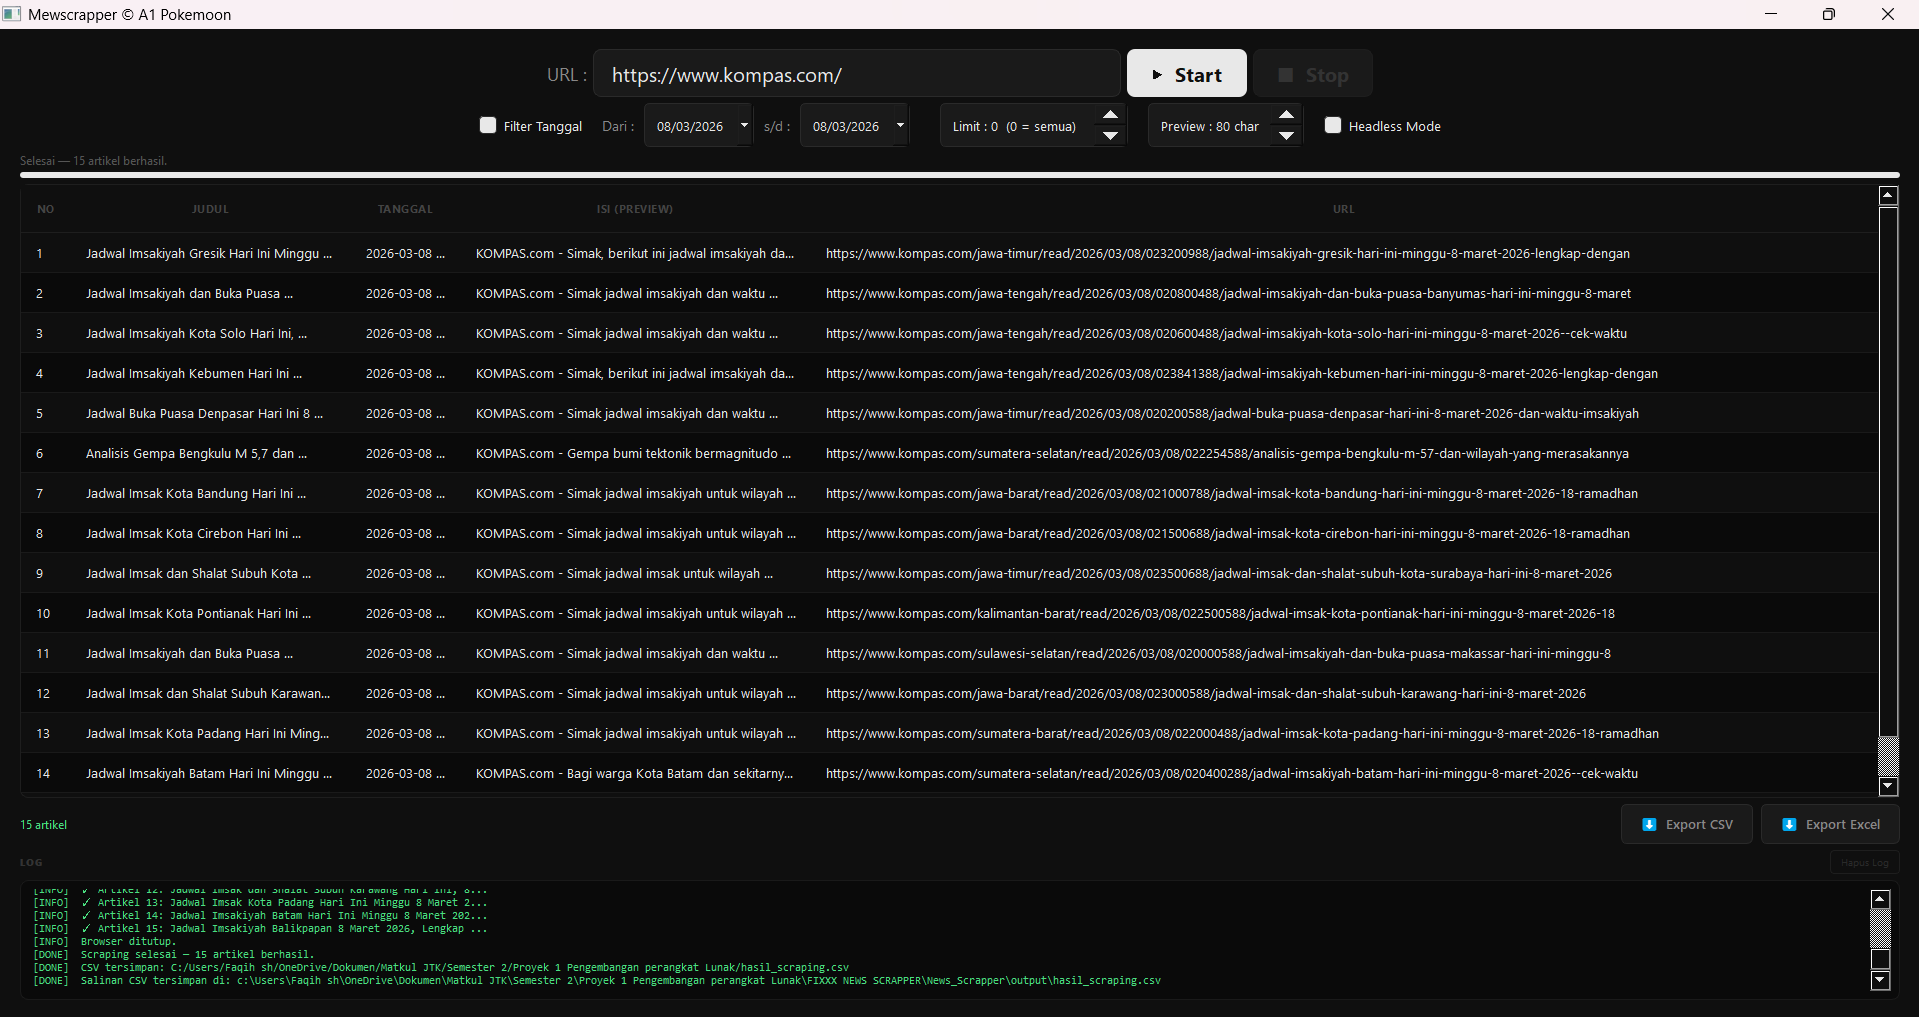
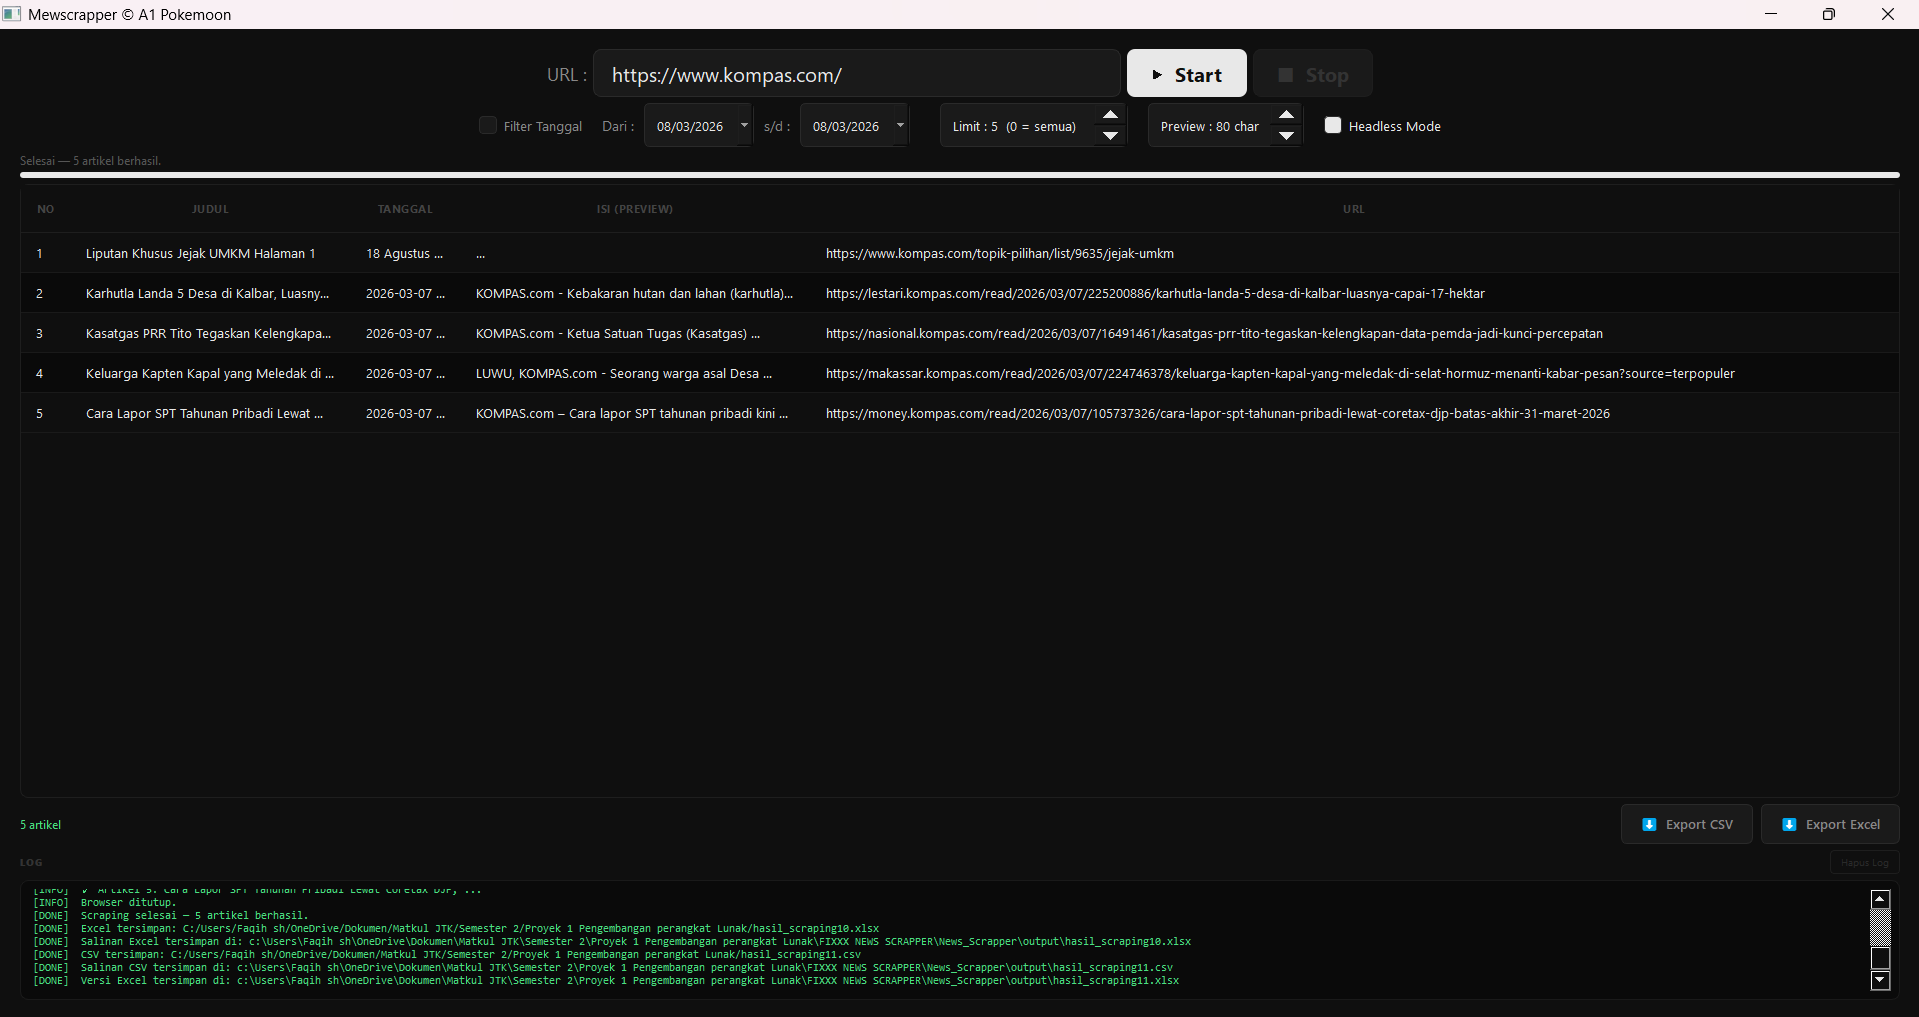
fix error export + add new preview

diff --git a/utils/exporter.py b/utils/exporter.py
@@ -1,30 +1,75 @@
 import csv
+import re
 import openpyxl
-from openpyxl.styles import Font, PatternFill, Alignment
+from openpyxl.styles import Font, PatternFill, Alignment, Border, Side
 
 # FIELDS: bagian data artikel yang mau dimasukkan ke file
 FIELDS = ["title", "date", "content", "url"]
 
-# HEADERS: judul kolom yang akan tampil di bagian atas file export
-HEADERS = ["Judul", "Tanggal", "Isi", "URL"]
+# HEADERS: judul kolom yang akan tampil di bagian atas file export (termasuk No)
+HEADERS = ["No", "Judul", "Tanggal", "Isi", "URL"]
 
-def export_to_csv(data, filepath):
+
+def _clean_text(text):
+    """Membersihkan teks dari newline dan spasi berlebih agar rapi di tabel."""
+    if not text:
+        return ""
+    # Ganti semua jenis newline dan tab menjadi spasi tunggal
+    cleaned = re.sub(r'[\r\n\t]+', ' ', str(text))
+    # Hilangkan spasi berlebihan (dobel atau lebih)
+    cleaned = re.sub(r' {2,}', ' ', cleaned)
+    return cleaned.strip()
+
+
+def _format_date(date_str):
+    """Konversi tanggal ISO (2026-03-08 00:00:00) ke format Indonesia (DD/MM/YYYY HH.mm).
+    Jika bukan format ISO, kembalikan apa adanya.
     """
-    Mengekspor daftar artikel ke dalam file format CSV.
+    if not date_str:
+        return ""
+    # Coba parse format ISO datetime: YYYY-MM-DD HH:MM:SS atau YYYY-MM-DD
+    iso_pattern = re.match(r'(\d{4})-(\d{2})-(\d{2})(?:[T ]?(\d{2}):(\d{2}))?', str(date_str))
+    if iso_pattern:
+        year = iso_pattern.group(1)
+        month = iso_pattern.group(2)
+        day = iso_pattern.group(3)
+        hour = iso_pattern.group(4) or '00'
+        minute = iso_pattern.group(5) or '00'
+        return f"{day}/{month}/{year} {hour}.{minute}"
+    # Bukan format ISO, kembalikan apa adanya (misal: '3 tahun lalu', '05-Mar-26')
+    return str(date_str).strip()
+
+
+def export_to_csv(data, filepath, content_limit=0):
+    """
+    Mengekspor daftar artikel ke dalam file format CSV yang rapi.
+    Menggunakan delimiter titik koma (;) agar langsung terbuka rapi di Excel.
+    content_limit: batas karakter isi (0 = tampilkan semua).
     """
     try:
         # Membuka file CSV untuk ditulis
         with open(filepath, "w", newline="", encoding="utf-8-sig") as file:
-            # Alat untuk menulis data artikel ke CSV sesuai kolom di FIELDS
-            writer = csv.DictWriter(file, fieldnames=FIELDS)
+            # Gunakan delimiter ; agar kolom terpisah otomatis di Excel
+            writer = csv.writer(file, delimiter=';', quoting=csv.QUOTE_MINIMAL)
             
-            # Menulis baris pertama CSV yang berisi nama kolom
-            writer.writeheader()
+            # Menulis baris pertama dengan header yang rapi
+            writer.writerow(HEADERS)
             
             # Menambahkan setiap artikel ke dalam file CSV
-            for row in data:
-                # Mengambil data artikel sesuai field yang dibutuhkan, jika tidak ada biarkan kosong ""
-                writer.writerow({k: row.get(k, "") for k in FIELDS})
+            for i, row in enumerate(data, 1):
+                # Ambil dan bersihkan isi content
+                content = _clean_text(row.get("content", ""))
+                # Terapkan limit karakter jika di-set
+                if content_limit > 0 and len(content) > content_limit:
+                    content = content[:content_limit] + "..."
+
+                writer.writerow([
+                    i,                                          # No
+                    _clean_text(row.get("title", "")),          # Judul
+                    _format_date(row.get("date", "")),          # Tanggal
+                    content,                                    # Isi (sesuai limit)
+                    row.get("url", "")                          # URL
+                ])
                 
         # File berhasil diexport
         return True
@@ -33,63 +78,100 @@ def export_to_csv(data, filepath):
         # Jika ada file yang gagal diekspor (error)
         return False
 
-def export_to_excel(data, filepath):
+def export_to_excel(data, filepath, content_limit=0):
     """
-    Mengekspor daftar artikel ke dalam file format Excel
+    Mengekspor daftar artikel ke dalam file format Excel yang rapi.
+    Lebar kolom tetap: No=6, Judul=90, Tanggal=30, Isi=180, URL=180.
+    Header berwarna biru + bold. Isi menggunakan wrap text.
+    content_limit: batas karakter isi (0 = tampilkan semua).
     """
     try:
         # Membuat file Excel baru
         wb = openpyxl.Workbook()
-        
-        # Mengambil sheet Excel yang akan kita isi data
         ws = wb.active
-        
-        # Mengganti nama sheet
         ws.title = "Hasil Scraping"
         
-        # Menulis baris pertama sebagai header, tambahkan awalan kolom "No"
-        ws.append(["No"] + HEADERS)
+        # ============================
+        # HEADER — baris pertama
+        # ============================
+        ws.append(HEADERS)
         
-        # Mengatur tampilan header
-        header_font = Font(bold=True, color="FFFFFF")
+        # Style header: bold, putih, latar biru
+        header_font = Font(name='Segoe UI', bold=True, color="FFFFFF", size=11)
         header_fill = PatternFill(start_color="0070C0", end_color="0070C0", fill_type="solid")
         header_alignment = Alignment(horizontal="center", vertical="center")
         
-        # Menerapkan tampilan tersebut ke semua cell di baris pertama
         for cell in ws[1]:
             cell.font = header_font
             cell.fill = header_fill
             cell.alignment = header_alignment
-            
-        # Menulis setiap artikel ke baris berikutnya di Excel
-        for i, row in enumerate(data, 1):
-            # i = nomor urut mulai dari 1
-            # row.get(k, "") mengambil nilai dari field k, jika kosong maka ""
-            ws.append([i] + [row.get(k, "") for k in FIELDS])
-            
-        # Mengatur lebar kolom otomatis agar teks tidak terpotong
-        for col in ws.columns:
-            max_length = int(0)
-            # Mengambil huruf kolom (A, B, C, dst.)
-            column_letter = col[0].column_letter
-            
-            # Mencari teks paling panjang di dalam satu baris kolom
-            for cell in col:
-                try:
-                    if str(cell.value):
-                        if len(str(cell.value)) > max_length:
-                            max_length = len(str(cell.value))
-                except:
-                    pass
-            
-            # Menetapkan lebar kolom ditambah sedikit ruang ekstra (contoh: +2)
-            ws.column_dimensions[column_letter].width = int(max_length + 2)
-
-        # Menyimpan file Excel ke lokasi yang ditentukan
-        wb.save(filepath)
         
-        # File Excel berhasil diekspor
+        # ============================
+        # LEBAR KOLOM (tetap)
+        # ============================
+        ws.column_dimensions['A'].width = 6     # No
+        ws.column_dimensions['B'].width = 90    # Judul
+        ws.column_dimensions['C'].width = 30    # Tanggal
+        ws.column_dimensions['D'].width = 180   # Isi
+        ws.column_dimensions['E'].width = 180   # URL
+        
+        # ============================
+        # STYLE DATA
+        # ============================
+        font_data = Font(name='Segoe UI', size=10)
+        center_top = Alignment(horizontal="center", vertical="top")
+        left_wrap = Alignment(horizontal="left", vertical="top", wrap_text=True)
+        left_nowrap = Alignment(horizontal="left", vertical="top", wrap_text=False)
+        even_fill = PatternFill(start_color="F2F7FB", end_color="F2F7FB", fill_type="solid")
+            
+        # ============================
+        # DATA — baris ke-2 dst
+        # ============================
+        for i, row in enumerate(data, 1):
+            # Ambil dan bersihkan isi content
+            content = _clean_text(row.get("content", ""))
+            # Terapkan limit karakter jika di-set
+            if content_limit > 0 and len(content) > content_limit:
+                content = content[:content_limit] + "..."
+
+            ws.append([
+                i,                                          # No
+                _clean_text(row.get("title", "")),          # Judul
+                _format_date(row.get("date", "")),          # Tanggal
+                content,                                    # Isi (sesuai limit)
+                row.get("url", "")                          # URL
+            ])
+            
+            r = i + 1  # baris di Excel (1 = header)
+            
+            # No — center
+            ws.cell(row=r, column=1).alignment = center_top
+            ws.cell(row=r, column=1).font = font_data
+            # Judul — left wrap
+            ws.cell(row=r, column=2).alignment = left_wrap
+            ws.cell(row=r, column=2).font = font_data
+            # Tanggal — center
+            ws.cell(row=r, column=3).alignment = center_top
+            ws.cell(row=r, column=3).font = font_data
+            # Isi — left wrap (teks panjang akan melebar ke bawah)
+            ws.cell(row=r, column=4).alignment = left_wrap
+            ws.cell(row=r, column=4).font = font_data
+            # URL — left no wrap
+            ws.cell(row=r, column=5).alignment = left_nowrap
+            ws.cell(row=r, column=5).font = font_data
+            
+            # Warna selang-seling (baris genap)
+            if i % 2 == 0:
+                for c in range(1, 6):
+                    ws.cell(row=r, column=c).fill = even_fill
+
+        # Freeze header
+        ws.freeze_panes = 'A2'
+
+        # Simpan file
+        wb.save(filepath)
         return True
             
-    except Exception:
-        return False
+    except Exception as e:
+        return str(e)
+

diff --git a/gui/main_window.py b/gui/main_window.py
@@ -615,13 +615,22 @@ class MainWindow(QMainWindow):
             self, 'Simpan CSV', 'hasil_scraping.csv', 'CSV (*.csv)'
         )
         if path:
-            export_to_csv(self.articles, path)
+            content_limit = self.spin_preview.value()  # Ambil limit karakter dari SpinBox
+            export_to_csv(self.articles, path, content_limit=content_limit)
             self.log_box.append(f'[DONE]  CSV tersimpan: {path}')
             # Auto-save salinan ke folder output/
             output_dir = self._get_output_dir()
             output_path = os.path.join(output_dir, os.path.basename(path))
             shutil.copy2(path, output_path)
             self.log_box.append(f'[DONE]  Salinan CSV tersimpan di: {output_path}')
+            # Juga simpan versi Excel (dengan header berwarna) di output/
+            excel_name = os.path.splitext(os.path.basename(path))[0] + '.xlsx'
+            excel_output = os.path.join(output_dir, excel_name)
+            result = export_to_excel(self.articles, excel_output, content_limit=content_limit)
+            if result is True:
+                self.log_box.append(f'[DONE]  Versi Excel tersimpan di: {excel_output}')
+            else:
+                self.log_box.append(f'[ERROR]  Gagal buat Excel: {result}')
 
     def do_export_excel(self):
         if not self.articles:
@@ -631,13 +640,17 @@ class MainWindow(QMainWindow):
             self, 'Simpan Excel', 'hasil_scraping.xlsx', 'Excel (*.xlsx)'
         )
         if path:
-            export_to_excel(self.articles, path)
-            self.log_box.append(f'[DONE]  Excel tersimpan: {path}')
-            # Auto-save salinan ke folder output/
-            output_dir = self._get_output_dir()
-            output_path = os.path.join(output_dir, os.path.basename(path))
-            shutil.copy2(path, output_path)
-            self.log_box.append(f'[DONE]  Salinan Excel tersimpan di: {output_path}')
+            content_limit = self.spin_preview.value()  # Ambil limit karakter dari SpinBox
+            result = export_to_excel(self.articles, path, content_limit=content_limit)
+            if result is True:
+                self.log_box.append(f'[DONE]  Excel tersimpan: {path}')
+                # Auto-save salinan ke folder output/
+                output_dir = self._get_output_dir()
+                output_path = os.path.join(output_dir, os.path.basename(path))
+                shutil.copy2(path, output_path)
+                self.log_box.append(f'[DONE]  Salinan Excel tersimpan di: {output_path}')
+            else:
+                self.log_box.append(f'[ERROR]  Gagal export Excel: {result}')
         
 if __name__ == '__main__':
     app = QApplication(sys.argv)

diff --git a/README.md b/README.md
@@ -268,14 +268,11 @@ User klik Export → simpan ke CSV/Excel
 
 ## Preview Aplikasi
 
-### Tampilan Awal
-![Tampilan Awal](docs/Screenshoots/before.png)
+### Scrapping:
+![Scrapping](docs/Screenshoots/scrap.png)
 
-### Proses Scraping
-![Proses Scraping](docs/Screenshoots/scrap.png)
-
-### Hasil Export CSV
-![Hasil Export CSV](docs/Screenshoots/after.png)
+### Export:
+![Export](docs/Screenshoots/export.png)
 
 ## Lisensi
 
